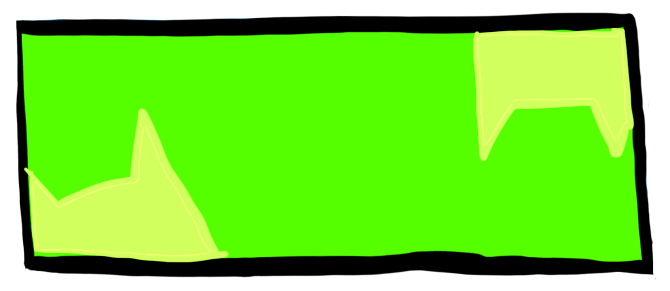
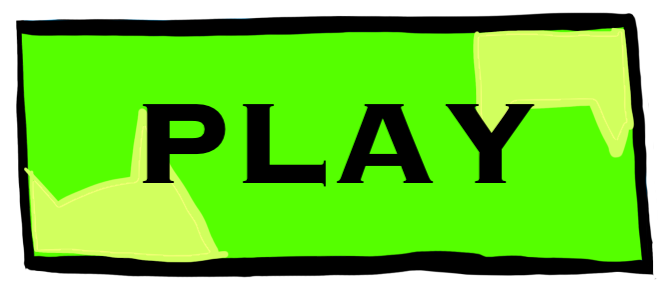
Feature: added the hud design to all scenes. Also fixed the hover on the play button on the menu and changed the background of the rocket scene.

Changed region(s): [[0.209, 0.3402, 0.6567, 0.6495], [0.6567, 0.3402, 0.806, 0.6495]]

diff --git a/src/main/java/nz/ac/auckland/se206/controllers/PantryController.java b/src/main/java/nz/ac/auckland/se206/controllers/PantryController.java
@@ -1,16 +1,31 @@
 package nz.ac.auckland.se206.controllers;
 
 import javafx.fxml.FXML;
+import javafx.scene.Node;
+import javafx.scene.image.ImageView;
 import javafx.scene.input.MouseEvent;
 import javafx.scene.shape.Rectangle;
 import nz.ac.auckland.se206.App;
+import nz.ac.auckland.se206.GameState;
+import nz.ac.auckland.se206.Hover;
+import nz.ac.auckland.se206.HudState;
 import nz.ac.auckland.se206.SceneManager.AppUi;
 
 public class PantryController {
 
   @FXML private Rectangle backButton;
+  @FXML private ImageView torchHud;
+  @FXML private ImageView note1Hud;
+  @FXML private ImageView note2Hud;
+  @FXML private Rectangle torchRectangle;
+  @FXML private Rectangle note1Rectangle;
+  @FXML private Rectangle note2Rectangle;
 
-  public void initialize() {}
+  public void initialize() {
+    HudState.torchHudDone(torchHud);
+    HudState.note1HudDone(note1Hud);
+    HudState.note2HudDone(note2Hud);
+  }
 
   @FXML
   public void onClickBack(MouseEvent event) {
@@ -19,5 +34,69 @@ public class PantryController {
 
   private void switchToRoom() {
     App.setUi(AppUi.MAIN_ROOM);
+  }
+
+  /**
+   * Handles the click event on the note1.
+   *
+   * @param event the mouse event
+   */
+  @FXML
+  public void clickNote1(MouseEvent event) {
+    if (GameState.note1Found) {
+      switchToNote1();
+    }
+  }
+
+  private void switchToNote1() {
+    App.setUi(AppUi.NOTE1);
+  }
+
+  /**
+   * Handles the click event on the note1.
+   *
+   * @param event the mouse event
+   */
+  @FXML
+  public void clickNote2(MouseEvent event) {
+    if (GameState.note2Found) {
+      switchToNote2();
+    }
+  }
+
+  private void switchToNote2() {
+    App.setUi(AppUi.NOTE2);
+  }
+
+  @FXML
+  public void onMouseHub(MouseEvent event) {
+    Rectangle rectangle =
+        HudState.findRectangle(event, torchRectangle, note1Rectangle, note2Rectangle);
+    if (rectangle != null) {
+      HudState.highlightRectangle(rectangle);
+      onHoverInteractable(event);
+    }
+  }
+
+  @FXML
+  public void offMouseHub(MouseEvent event) {
+    Rectangle rectangle =
+        HudState.findRectangle(event, torchRectangle, note1Rectangle, note2Rectangle);
+    if (rectangle != null) {
+      HudState.removeHighlightRectangle(rectangle);
+      onLeaveInteractable(event);
+    }
+  }
+
+  @FXML
+  public void onHoverInteractable(MouseEvent event) {
+    ImageView image = (ImageView) (Node) event.getTarget();
+    Hover.scaleUp(image);
+  }
+
+  @FXML
+  public void onLeaveInteractable(MouseEvent event) {
+    ImageView image = (ImageView) (Node) event.getTarget();
+    Hover.scaleDown(image);
   }
 }

diff --git a/src/main/java/nz/ac/auckland/se206/controllers/RocketController.java b/src/main/java/nz/ac/auckland/se206/controllers/RocketController.java
@@ -1,10 +1,15 @@
 package nz.ac.auckland.se206.controllers;
 
 import javafx.fxml.FXML;
+import javafx.scene.Node;
 import javafx.scene.image.ImageView;
 import javafx.scene.input.MouseEvent;
 import javafx.scene.layout.Pane;
+import javafx.scene.shape.Rectangle;
 import nz.ac.auckland.se206.App;
+import nz.ac.auckland.se206.GameState;
+import nz.ac.auckland.se206.Hover;
+import nz.ac.auckland.se206.HudState;
 import nz.ac.auckland.se206.SceneManager.AppUi;
 
 public class RocketController {
@@ -12,6 +17,12 @@ public class RocketController {
   @FXML private Pane pane;
   @FXML private ImageView exit;
   @FXML private ImageView cat;
+  @FXML private ImageView torchHud;
+  @FXML private ImageView note1Hud;
+  @FXML private ImageView note2Hud;
+  @FXML private Rectangle torchRectangle;
+  @FXML private Rectangle note1Rectangle;
+  @FXML private Rectangle note2Rectangle;
 
   public void initialize() {}
 
@@ -27,5 +38,69 @@ public class RocketController {
 
   private void switchToRoom() {
     App.setUi(AppUi.MAIN_ROOM);
+  }
+
+  /**
+   * Handles the click event on the note1.
+   *
+   * @param event the mouse event
+   */
+  @FXML
+  public void clickNote1(MouseEvent event) {
+    if (GameState.note1Found) {
+      switchToNote1();
+    }
+  }
+
+  private void switchToNote1() {
+    App.setUi(AppUi.NOTE1);
+  }
+
+  /**
+   * Handles the click event on the note1.
+   *
+   * @param event the mouse event
+   */
+  @FXML
+  public void clickNote2(MouseEvent event) {
+    if (GameState.note2Found) {
+      switchToNote2();
+    }
+  }
+
+  private void switchToNote2() {
+    App.setUi(AppUi.NOTE2);
+  }
+
+  @FXML
+  public void onMouseHub(MouseEvent event) {
+    Rectangle rectangle =
+        HudState.findRectangle(event, torchRectangle, note1Rectangle, note2Rectangle);
+    if (rectangle != null) {
+      HudState.highlightRectangle(rectangle);
+      onHoverInteractable(event);
+    }
+  }
+
+  @FXML
+  public void offMouseHub(MouseEvent event) {
+    Rectangle rectangle =
+        HudState.findRectangle(event, torchRectangle, note1Rectangle, note2Rectangle);
+    if (rectangle != null) {
+      HudState.removeHighlightRectangle(rectangle);
+      onLeaveInteractable(event);
+    }
+  }
+
+  @FXML
+  public void onHoverInteractable(MouseEvent event) {
+    ImageView image = (ImageView) (Node) event.getTarget();
+    Hover.scaleUp(image);
+  }
+
+  @FXML
+  public void onLeaveInteractable(MouseEvent event) {
+    ImageView image = (ImageView) (Node) event.getTarget();
+    Hover.scaleDown(image);
   }
 }

diff --git a/src/main/java/nz/ac/auckland/se206/HudState.java b/src/main/java/nz/ac/auckland/se206/HudState.java
@@ -12,7 +12,7 @@ public class HudState {
 
   // if torchHudDone so the torch has been used, it will be greyed out
   public static void torchHudDone(ImageView image) {
-    if (GameState.torchHudDone()) {
+    if ((GameState.torchFound) && (GameState.footprintsFound) && (GameState.puzzle1)) {
       greyImage(image);
     }
     if (!GameState.torchFound) {
@@ -24,7 +24,7 @@ public class HudState {
 
   // if note1Done so the note has been used, it will be greyed out
   public static void note1HudDone(ImageView image) {
-    if (GameState.note1HudDone()) {
+    if ((GameState.note1Found) && (GameState.puzzle2) && (GameState.puzzle3)) {
       greyImage(image);
     }
     if (!GameState.note1Found) {
@@ -36,7 +36,7 @@ public class HudState {
 
   // if note1Done so the note has been used, it will be greyed out
   public static void note2HudDone(ImageView image) {
-    if (GameState.note2HudDone()) {
+    if ((GameState.note2Found) && (GameState.puzzle2) && (GameState.puzzle3)) {
       greyImage(image);
     }
     if (!GameState.note2Found) {
@@ -73,17 +73,17 @@ public class HudState {
     ImageView image = (ImageView) (Node) event.getTarget();
     if ("torchHud".equals(image.getId())) {
       rectangle = torch;
-      if (GameState.torchHudDone() || (!GameState.torchFound)) {
+      if ((GameState.footprintsFound) && (GameState.puzzle1) || (!GameState.torchFound)) {
         rectangle = null;
       }
     } else if ("note1Hud".equals(image.getId())) {
       rectangle = note1;
-      if (GameState.note1HudDone() || (!GameState.note1Found)) {
+      if ((GameState.puzzle2) && (GameState.puzzle3) || (!GameState.note1Found)) {
         rectangle = null;
       }
     } else if ("note2Hud".equals(image.getId())) {
       rectangle = note2;
-      if (GameState.note2HudDone() || (!GameState.note2Found)) {
+      if ((GameState.puzzle2) && (GameState.puzzle3) || (!GameState.note2Found)) {
         rectangle = null;
       }
     }

diff --git a/src/main/java/nz/ac/auckland/se206/GameState.java b/src/main/java/nz/ac/auckland/se206/GameState.java
@@ -9,39 +9,13 @@ public class GameState {
   /** Indicates whether the key has been found. */
   public static boolean isKeyFound = false;
 
-  // items for the hub once true will go into the hub
-  // logic for the grey out will be the game progress state and item true
   public static boolean torchFound = false;
-
-  // logic for item hubs feel free to change
-  public static boolean torchHudDone() {
-    if ((GameState.torchFound) && (GameState.footprintsFound) && (GameState.puzzle1)) {
-      return true;
-    }
-    return false;
-  }
 
   public static boolean footprintsFound = false;
 
   public static boolean note1Found = false;
 
-  // LOGIC PROBS WRONG SINCE MADE BEFORE IMPLEMENTING PUZZLE
-  public static boolean note1HudDone() {
-    if ((GameState.note1Found) && (GameState.puzzle2) && (GameState.puzzle3)) {
-      return true;
-    }
-    return false;
-  }
-
   public static boolean note2Found = false;
-
-  // LOGIC PROBS WRONG SINCE MADE BEFORE IMPLEMENTING PUZZLE
-  public static boolean note2HudDone() {
-    if ((GameState.note2Found) && (GameState.puzzle2) && (GameState.puzzle3)) {
-      return true;
-    }
-    return false;
-  }
 
   public static boolean puzzle1 = false;
 

diff --git a/src/main/java/nz/ac/auckland/se206/controllers/MainRoomController.java b/src/main/java/nz/ac/auckland/se206/controllers/MainRoomController.java
@@ -42,6 +42,11 @@ public class MainRoomController {
 
   /** Initializes the room view, it is called when the room loads. */
   public void initialize() {
+    GameState.torchFound = true;
+    GameState.footprintsFound = true;
+    GameState.puzzle1 = true;
+    GameState.note1Found = true;
+    GameState.note2Found = true;
     HudState.torchHudDone(torchHud);
     HudState.note1HudDone(note1Hud);
     HudState.note2HudDone(note2Hud);
